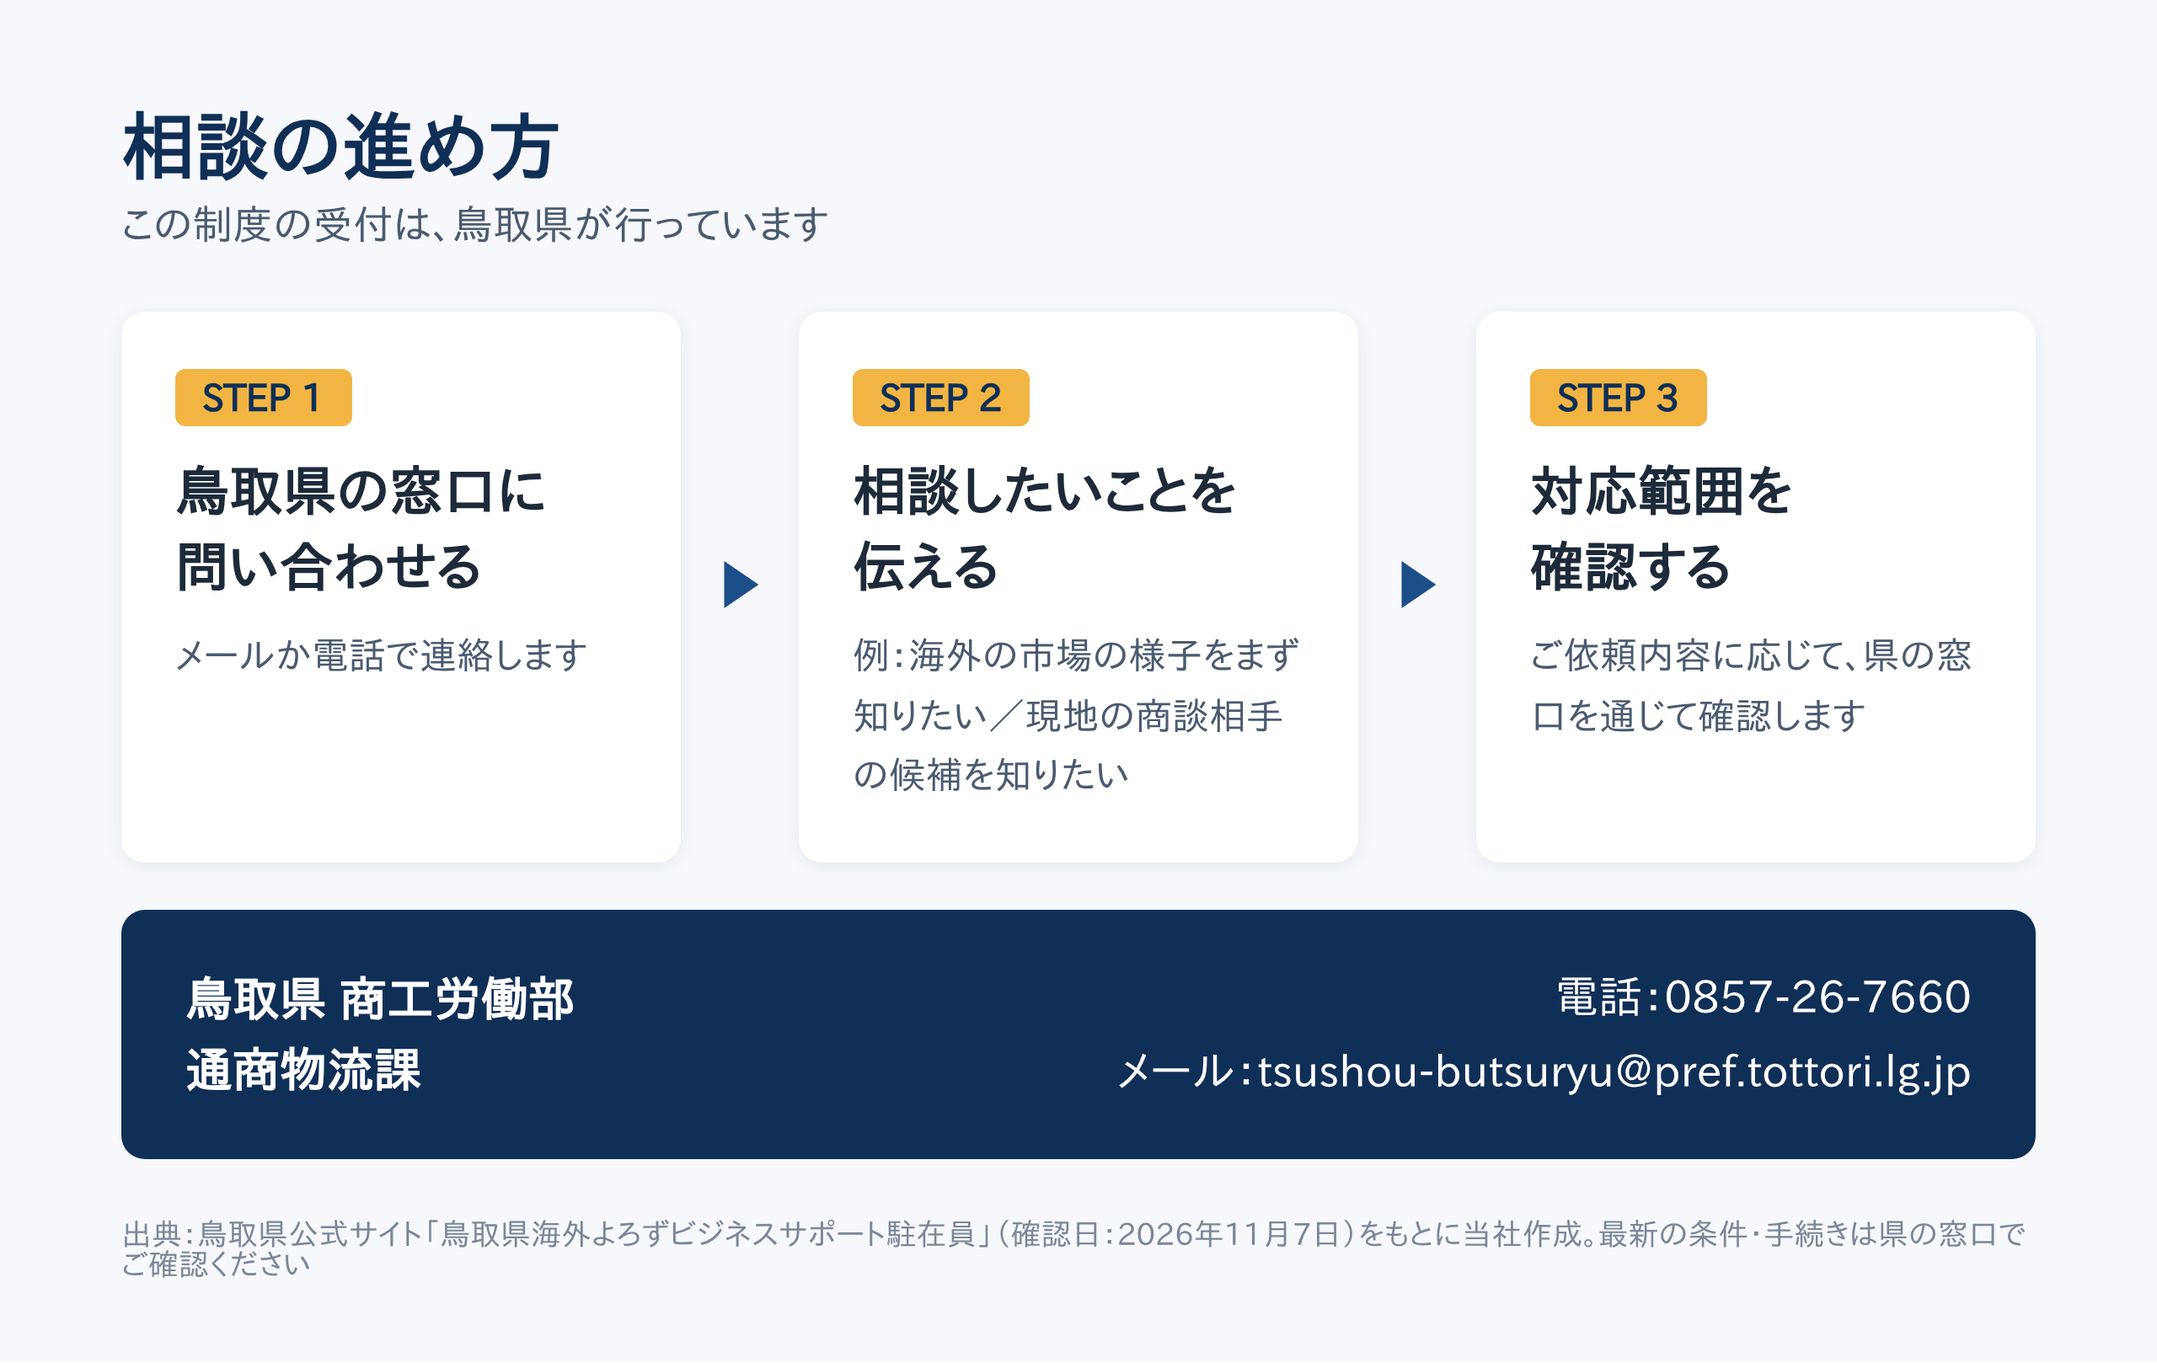
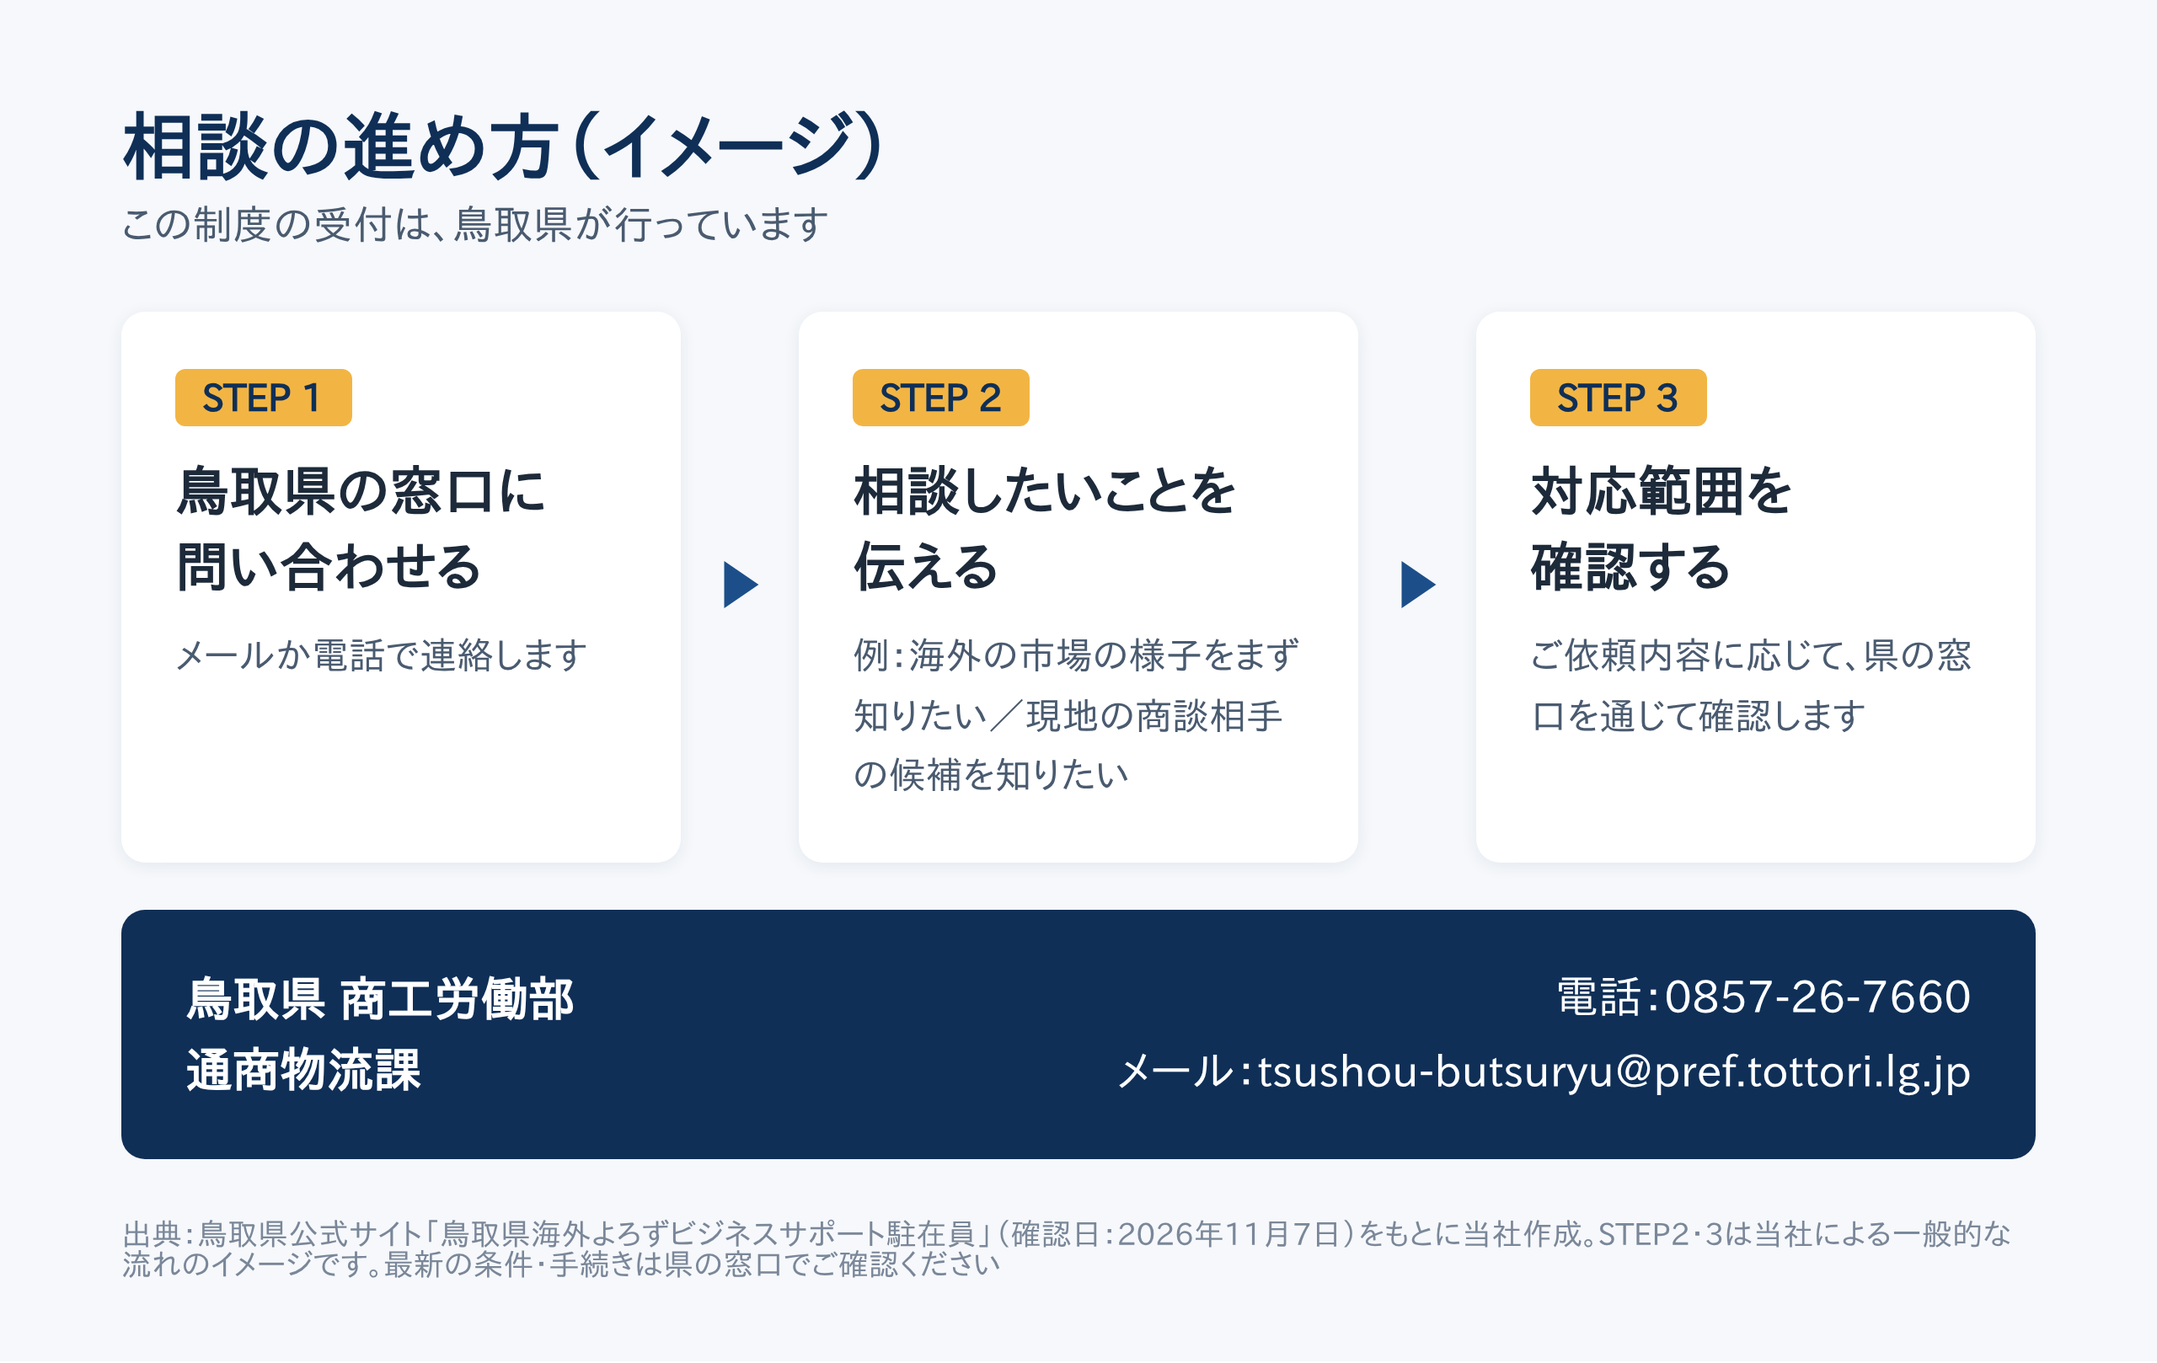
note記事（鳥取県駐在員）v7：アオイ監査M1〜M4・R9〜R10を反映、図解02・05を更新
Claude-Session: https://claude.ai/code/session_019zHJ4LWbNGh2h3Keb25My9

diff --git a/logs/kohomada_2026-11-07_note画像_鳥取県駐在員/src.html b/logs/kohomada_2026-11-07_note画像_鳥取県駐在員/src.html
@@ -61,8 +61,8 @@ td .m{color:#4a5b70;font-size:22px}
   <h2>「海外よろずビジネスサポート駐在員」とは</h2>
   <p class="sub">世界の主要市場に駐在員を置き、県内企業の海外展開を現地でサポートする鳥取県の制度です</p>
   <div class="cards">
-    <div class="card"><div class="lab">対象</div><div class="val">鳥取県内の<br>法人・個人</div><div class="note">県内に本店・本社・主たる事業所がある方</div></div>
-    <div class="card"><div class="lab">想定している段階</div><div class="val">海外展開の<br>初期段階</div><div class="note">「まず様子を知りたい」段階の支援</div></div>
+    <div class="card"><div class="lab">対象</div><div class="val">鳥取県内の<br>法人・個人</div><div class="note">県内に本店・本社・主たる事業所があり、事業を営む方</div></div>
+    <div class="card"><div class="lab">想定している段階</div><div class="val">海外展開の<br>初期段階</div><div class="note">海外展開に取り組む初期段階の支援</div></div>
     <div class="card accent"><div class="lab">料金</div><div class="val">原則無料</div><div class="note">入場料・使用料・送料などの実費は、依頼する方のご負担です</div></div>
   </div>
   <p class="src">出典：鳥取県公式サイト「鳥取県海外よろずビジネスサポート駐在員」（確認日：2026年11月7日）をもとに当社作成</p>
@@ -93,7 +93,7 @@ td .m{color:#4a5b70;font-size:22px}
 </div>
 
 <div id="i5" class="img">
-  <h2>相談の進め方</h2>
+  <h2>相談の進め方（イメージ）</h2>
   <p class="sub">この制度の受付は、鳥取県が行っています</p>
   <div class="flow">
     <div class="step"><span class="no">STEP 1</span><div class="t">鳥取県の窓口に<br>問い合わせる</div><div class="d">メールか電話で連絡します</div></div>
@@ -103,6 +103,6 @@ td .m{color:#4a5b70;font-size:22px}
     <div class="step"><span class="no">STEP 3</span><div class="t">対応範囲を<br>確認する</div><div class="d">ご依頼内容に応じて、県の窓口を通じて確認します</div></div>
   </div>
   <div class="contact"><div class="who">鳥取県 商工労働部<br>通商物流課</div><div class="tel">電話：0857-26-7660<br>メール：tsushou-butsuryu@pref.tottori.lg.jp</div></div>
-  <p class="src">出典：鳥取県公式サイト「鳥取県海外よろずビジネスサポート駐在員」（確認日：2026年11月7日）をもとに当社作成。最新の条件・手続きは県の窓口でご確認ください</p>
+  <p class="src">出典：鳥取県公式サイト「鳥取県海外よろずビジネスサポート駐在員」（確認日：2026年11月7日）をもとに当社作成。STEP2・3は当社による一般的な流れのイメージです。最新の条件・手続きは県の窓口でご確認ください</p>
 </div>
 </body></html>

diff --git a/logs/kohomada_2026-11-07_note記事下書き_鳥取県駐在員就任_v7.md b/logs/kohomada_2026-11-07_note記事下書き_鳥取県駐在員就任_v7.md
@@ -1,0 +1,191 @@
+# note記事下書き：鳥取県海外よろずビジネスサポート駐在員 v7
+
+- 対象事業：株式会社コホマダ（note／マガジン：貿易・海外展開／種別：無料）
+- 状態：Draft（v6のアオイ監査：PASS WITH CONDITIONS → 必須M1〜M4（M4は案a）・推奨R9〜R10を修正例どおり反映したv7。再監査は省略可とアオイ判断。v6：社長提供情報「任命は2025年末ごろ」を反映し、新着のお知らせからご紹介記事の書き方に直したv6。v5：v4の本文はそのまま、図解画像5点の挿入位置を反映したv5。画像：`logs/kohomada_2026-11-07_note画像_鳥取県駐在員/`。v4までの経緯：v3のアオイ再監査：PASS WITH CONDITIONS → 必須修正N1・N2を修正例どおり、推奨R6・R7を反映したv4。修正例どおりのため再監査は省略可とアオイ判断）
+- 基準日：2026-11-07
+- 参考記事（文体・構成のみ参照。事実は持ち込まない）：
+  - https://note.com/kohomadha/n/n0973f531a0d1（Birdly紹介記事）
+  - https://note.com/kohomadha/n/n833dff644f80（Heura紹介記事）
+
+> **社長のご承認をお願いします。** 承認が必要な事項は末尾「6. 承認が必要な事項」にまとめています。
+
+---
+
+## 1. タイトル案
+
+1. 当社代表・髙松が務める、鳥取県「海外よろずビジネスサポート駐在員」のご紹介―海外展開を考える県内事業者さまへ
+2. 海外展開の最初の一歩を、原則無料で相談できる。鳥取県「海外よろずビジネスサポート駐在員」のご紹介
+3. まず海外の様子を知りたい事業者さまへ。当社代表・髙松は鳥取県の駐在員を務めています
+
+---
+
+## 2. 本文（note貼り付け用）
+
+**【本記事について】**
+本記事は、株式会社コホマダの代表・髙松直弥が務めている、鳥取県の「海外よろずビジネスサポート駐在員」について、制度の内容とあわせてご紹介するものです。制度の内容は、鳥取県公式サイトの掲載内容をもとに整理しました。
+
+【見出し画像：01_見出し画像.png】
+
+* * *
+
+### はじめに
+
+当社代表の髙松直弥は、2025年末ごろから、鳥取県の「海外よろずビジネスサポート駐在員」を務めています。
+県の公式サイトにも、駐在員の一人として掲載されています（2026年11月7日時点）。
+
+「海外で売ってみたいけれど、何から始めればいいかわからない」。
+そんな鳥取県内の事業者さまが、まず相談できる県の制度のひとつです（受付は鳥取県の窓口です）。
+
+本記事では、制度のしくみ、駐在員がお手伝いできること・できないこと、髙松の担当地域、そして相談の進め方を順にご紹介します。
+
+* * *
+
+### 「海外よろずビジネスサポート駐在員」とは
+
+鳥取県が、県内企業の海外展開を支援するために設けている制度です。
+
+県の説明によれば、世界の主要な市場に駐在員を置き、現地の情報を伝えたり、商談の相手先候補を案内したりして、**県内企業の海外展開を現地でサポートする**ことを目的としています。
+
+> ・**対象**：鳥取県内に本店・本社・主たる事業所があり、事業を営む法人・個人の方
+> ・**想定している段階**：海外展開に取り組む**初期段階**の支援
+> ・**料金**：**原則無料**（入場料・使用料・送料などの実費は、依頼する方のご負担です）
+
+【図解：02_制度の概要.png】
+
+* * *
+
+### 駐在員がお手伝いできること・できないこと
+
+県のページでは、駐在員の支援内容として次のものが挙げられています。
+
+> ⒈ 現地の市場・商材・現地事情などについての**簡単な情報提供**
+> ⒉ 現地の**商談候補企業・視察先候補企業**の情報提供・リストアップ
+> ⒊ 現地での**視察代行**（駐在している周辺エリアに限ります。交通費を含みます）
+> ⒋ 現地へ行くときの**同行支援**（通訳・交通費は含みません。1日最大8時間まで）
+
+【図解：03_できること一覧.png】
+
+一方で、長時間の作業や、専門的な知識が必要なご依頼には対応できない、とされています。
+
+「まず現地の様子を知りたい」「最初の相手先の候補を探したい」。
+そうした最初の段階で使っていただく制度だと、当社は理解しています。
+
+* * *
+
+### 当社代表・髙松の担当地域
+
+県のページでは、髙松の対応可能国は次のように掲載されています。
+
+> 東南アジア・欧米・EU・南米・アフリカ 等
+
+また、これまでの取り組みとして、スリランカでの自社製品の販売や、EUへの食品の展開支援、アフリカへのアパレルの展開支援などが紹介されています。
+
+髙松は日本国内を拠点に、海外のネットワークを活かしてご相談に対応します。
+そのため、視察代行・同行支援など、具体的にどこまで対応できるかは、ご依頼内容に応じて県の窓口を通じてご確認ください。
+
+なお、ほかの地域を担当する駐在員の方もいらっしゃいます。詳しくは県のページ・窓口でご確認ください。
+
+【図解：04_髙松の対応可能国.png】
+
+* * *
+
+### 相談の進め方
+
+この制度の受付は、鳥取県が行っています。
+ご利用を考えている方は、まず**県の窓口に、メールか電話でお問い合わせください**。
+
+> **鳥取県 商工労働部 通商物流課**
+> 電話：0857-26-7660
+> メール：tsushou-butsuryu@pref.tottori.lg.jp
+
+「海外の市場の様子をまず知りたい」「現地の商談相手の候補を知りたい」。
+まだ始める前の段階のご相談でも、まずは一度、窓口に聞いてみてください。
+
+【図解：05_相談の進め方.png】
+
+* * *
+
+### さいごに
+
+海外展開は、最初の一歩がいちばん難しいものです。
+
+鳥取県の商品や技術が、海外のお客さまに届くように。
+髙松は駐在員の一人として、県内事業者さまの最初の一歩をお手伝いしてまいります。
+
+* * *
+
+### コホマダについて：海外と日本の事業者をつなぐ
+
+株式会社コホマダは、海外企業の日本進出と、日本企業の海外展開を支援しています（[公式サイト](https://kohomadha.com/)）。
+
+* * *
+
+### 本記事について（注記）
+
+**【制度の内容について】**
+本記事の制度の内容は、鳥取県公式サイトの掲載内容を当社が要約したものです。最新の条件・対象国・手続きは、必ず鳥取県の窓口でご確認ください。
+
+**【表示について】**
+本記事は鳥取県が作成・監修したものではなく、鳥取県による当社の推奨・保証を示すものでもありません。
+
+* * *
+
+### 出典・基準日
+
+* 鳥取県公式サイト「鳥取県海外よろずビジネスサポート駐在員」（鳥取県 商工労働部 通商物流課）
+  https://www.pref.tottori.lg.jp/311954.htm
+  （確認日：2026年11月7日。ページに掲載日・更新日の記載はありません）
+
+#鳥取県 #海外展開 #中小企業支援 #海外ビジネス #貿易 #コホマダ #株式会社コホマダ
+
+---
+
+## 3. 参考記事から取り入れた型
+
+| 型 | 参考記事での例 | v7での反映 |
+|---|---|---|
+| 冒頭で記事の立場を明示 | 【本記事について】（両記事） | 冒頭に【本記事について】 |
+| 一人称は「当社」、「私」は使わない | 両記事 | 「当社」「髙松」で統一 |
+| 情報源を毎回明示 | 「同社によれば」 | 「県の説明によれば」「県のページでは」 |
+| 見出しごとに区切り線 | * * * ＋ h3 | 同じ |
+| 要点の列挙は引用ブロック・番号 | ⒈⒉⒊（記事1） | 支援内容4項目 |
+| 「コホマダについて」の節 | 記事1 | 公式サイトリンクのみ |
+| 注記・免責 → 出典・確認日 → ハッシュタグ7個 | 両記事 | 同じ順番 |
+| 絵文字 | 記事1は1か所、記事2はなし | なし（お知らせ記事のため） |
+| 画像 | 見出し画像＋各節の前後 | 見出し画像＋図解4点 |
+
+## 4. 事実と出典の対応表
+
+| 本文の記載 | 根拠（県ページ本文） |
+|---|---|
+| 髙松直弥が駐在員として県公式サイトに掲載 | 県ページNo.2「株式会社コホマダ　髙松　直弥　代表」 |
+| 2025年末ごろから駐在員を務めている（2026年11月7日時点で県ページに掲載） | [ユーザー提供情報] 社長より「去年の年末ごろ任命」（2026-11-07）。県ページに記載なし |
+| 制度の目的 | 県ページ冒頭の説明 |
+| 対象・初期段階の支援 | 県ページ本文（対象） |
+| 原則無料・実費は依頼者負担 | 県ページ本文（料金） |
+| 支援内容4項目・交通費の扱い・通訳除く・1日最大8時間 | 県ページ本文（支援内容） |
+| 長時間・専門的な依頼は対応不可 | 県ページの注記 |
+| 対応可能国・実績・国内拠点 | 県ページNo.2 |
+| 他地域の駐在員がいる | 県ページNo.1・No.3 |
+| 受付は県・まずメールか電話／連絡先 | 県ページ本文（利用の流れ・問い合わせ先） |
+| コホマダの事業説明（「コホマダについて」） | 参考記事1の当社定型文と同じ文言（当社の自己紹介） |
+| 「当社は理解しています」「髙松は…お手伝いしてまいります」 | 事実ではなく当社の意思表明（社長・髙松さんの確認対象） |
+
+## 5. [要ヒアリング] 残りリスト
+
+- 任命時期：社長より「2025年の年末ごろ」と提供 → 本文は「2025年末から」と記載。正確な月日・任期は髙松さんに確認推奨（任期が終わっていないかも確認）
+- 髙松さん本人のコメント（入れる場合は「さいごに」に引用ブロックで追加）
+- 実績の具体的な社名・数字を出してよいか（今は県ページの範囲のみ）
+- コホマダ自身への問い合わせ導線を入れるか（参考記事2ではメールアドレスを掲載。今回は県窓口のみ）
+- 髙松さん個人が視察代行・同行支援を引き受けられる範囲
+- 図解画像5点は当社作成（県ロゴ・県ページのスクショ・他の駐在員の情報は不使用）。内容は本文と同じ事実のみ
+
+## 6. 承認が必要な事項（社長のご承認をお願いします）
+
+1. note公開の可否（公開操作は社長ご自身で）。「コホマダについて」の会社紹介文（既公開のBirdly記事と同じ文言）もあわせてご確認ください
+2. 掲載内容・実績の書き方・タイトルについての髙松さん本人の了承。あわせて、任命の月（「2025年末ごろ」で正しいか）と、任期が今も続いているかの確認
+3. 公開前に県担当課（通商物流課）へ事前確認するかどうか
+
+---
+
+本下書きは自動生成による候補です。実際の投稿・公開前に必ずaoi-quality-auditorの監査を経てください（external-publication-policy.md）。実際の投稿・公開は鈴木さん自身が行ってください。本エージェントは投稿・公開操作を一切行っていません。
